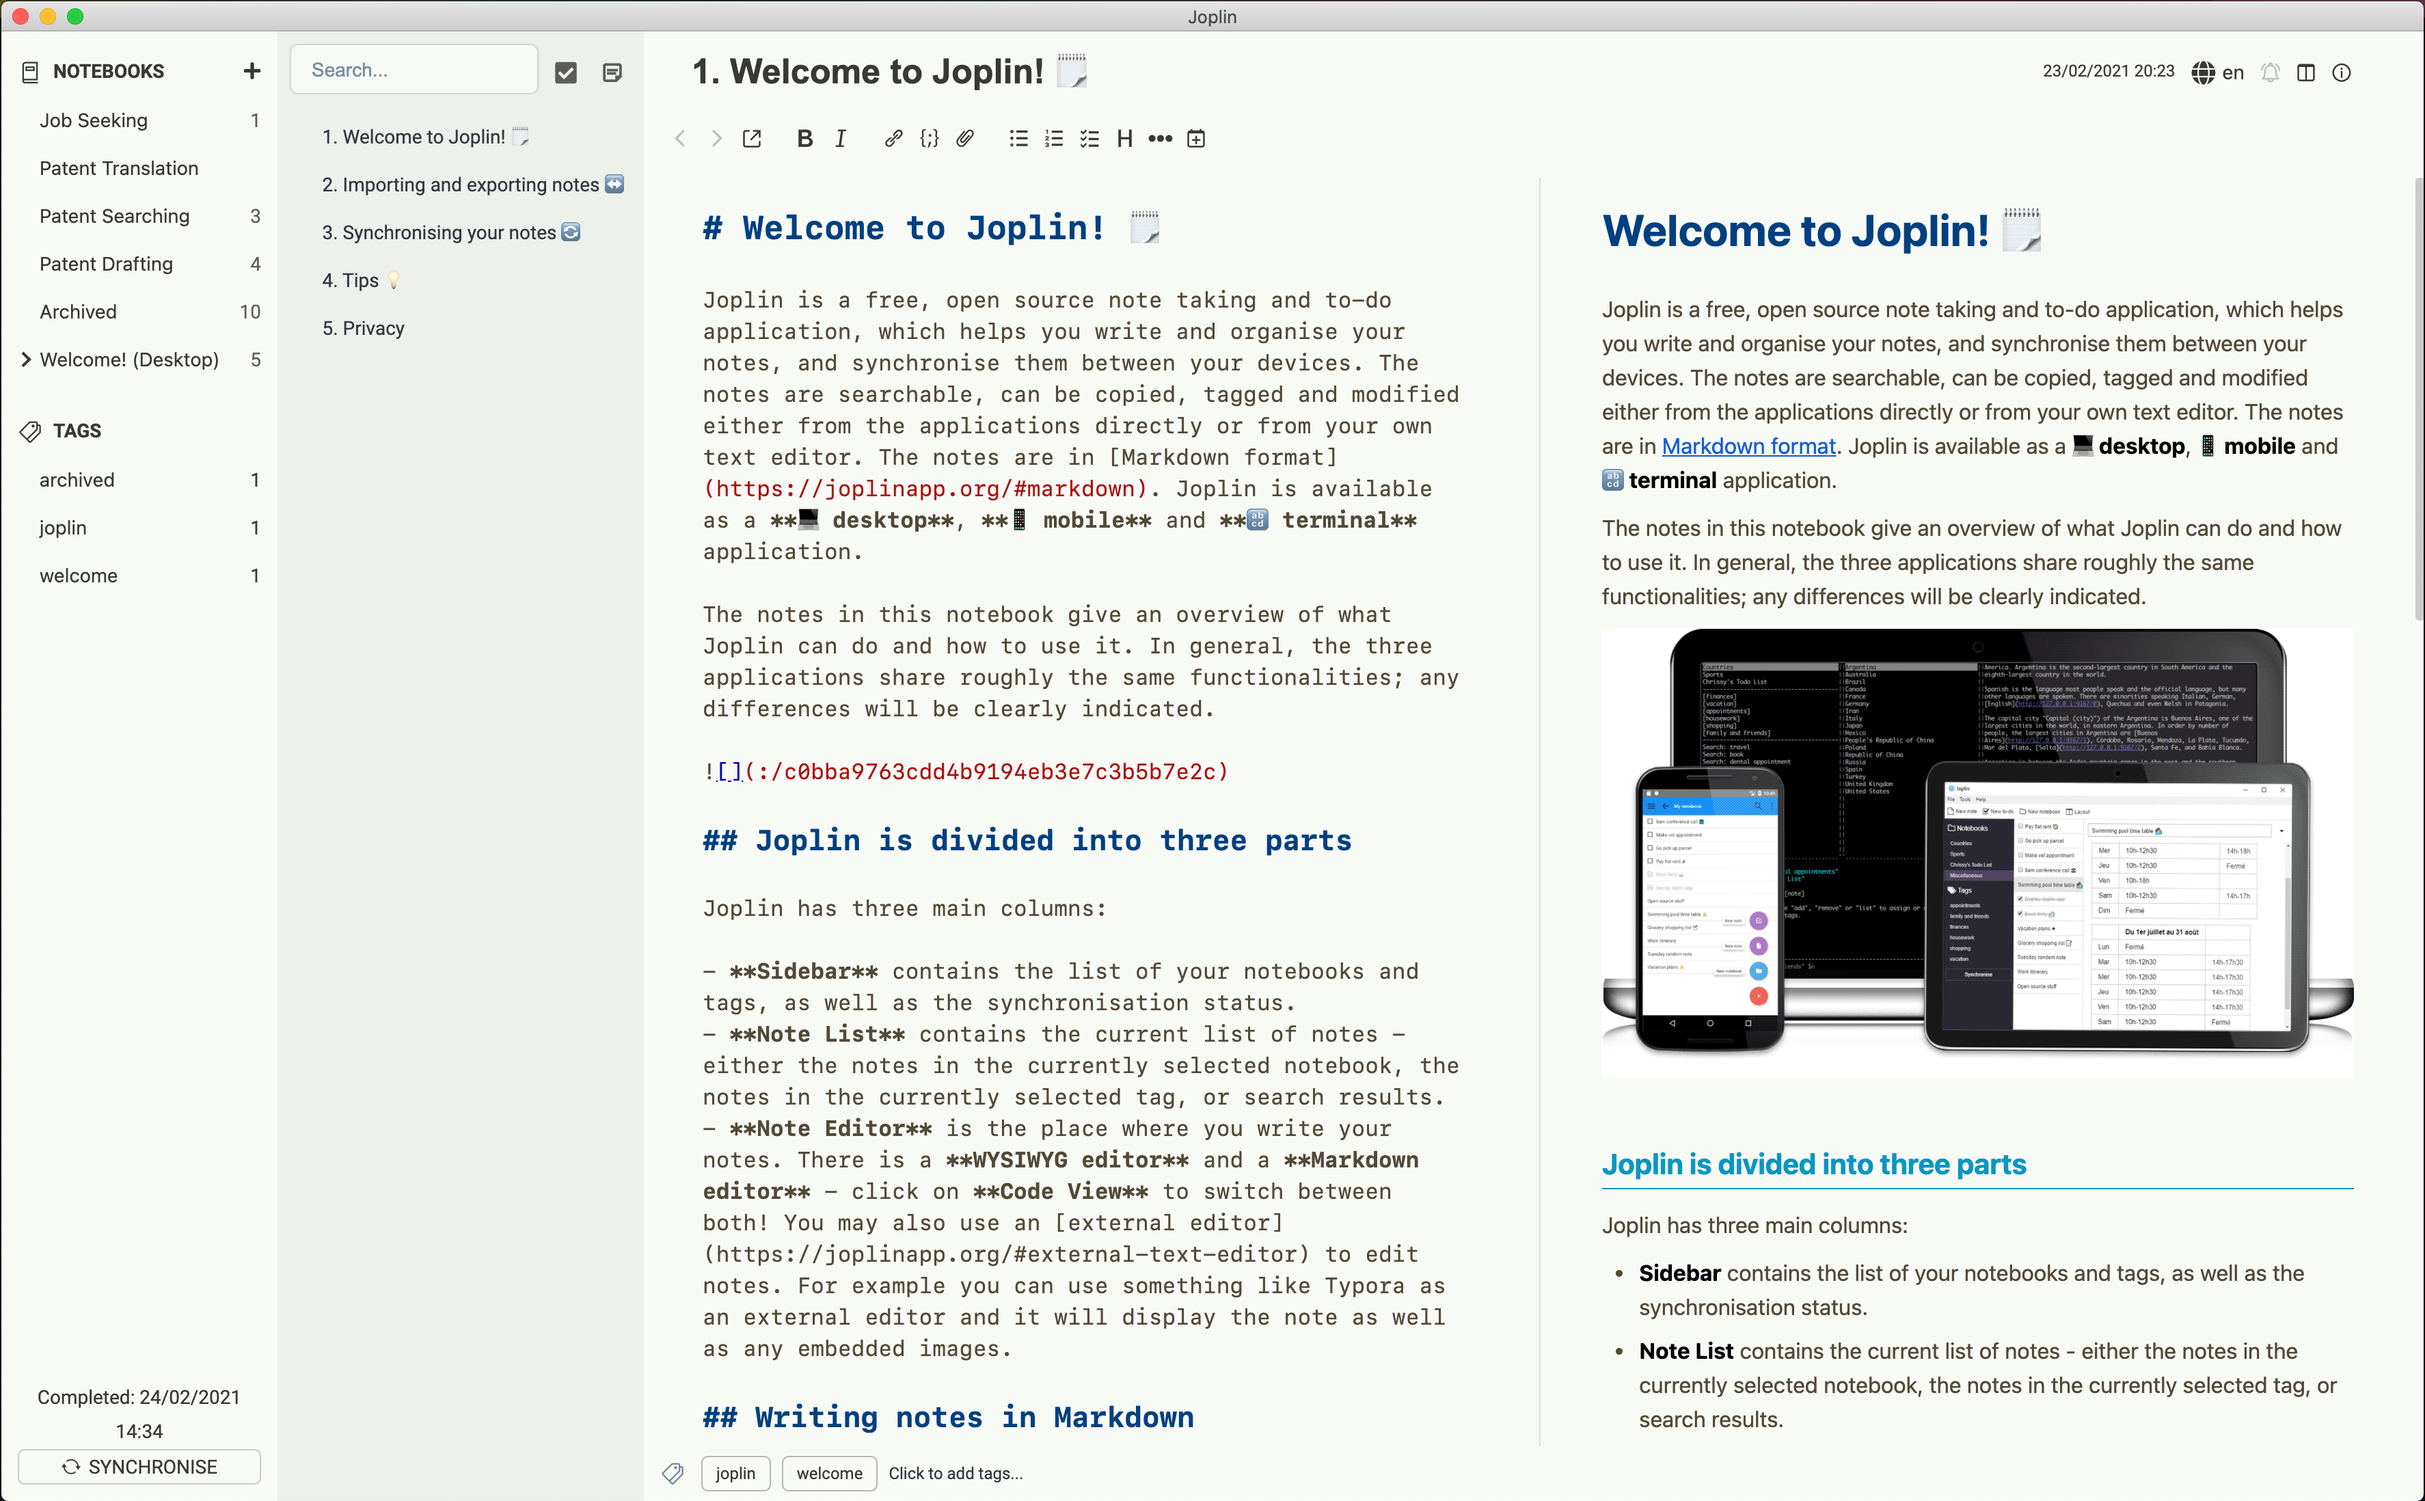
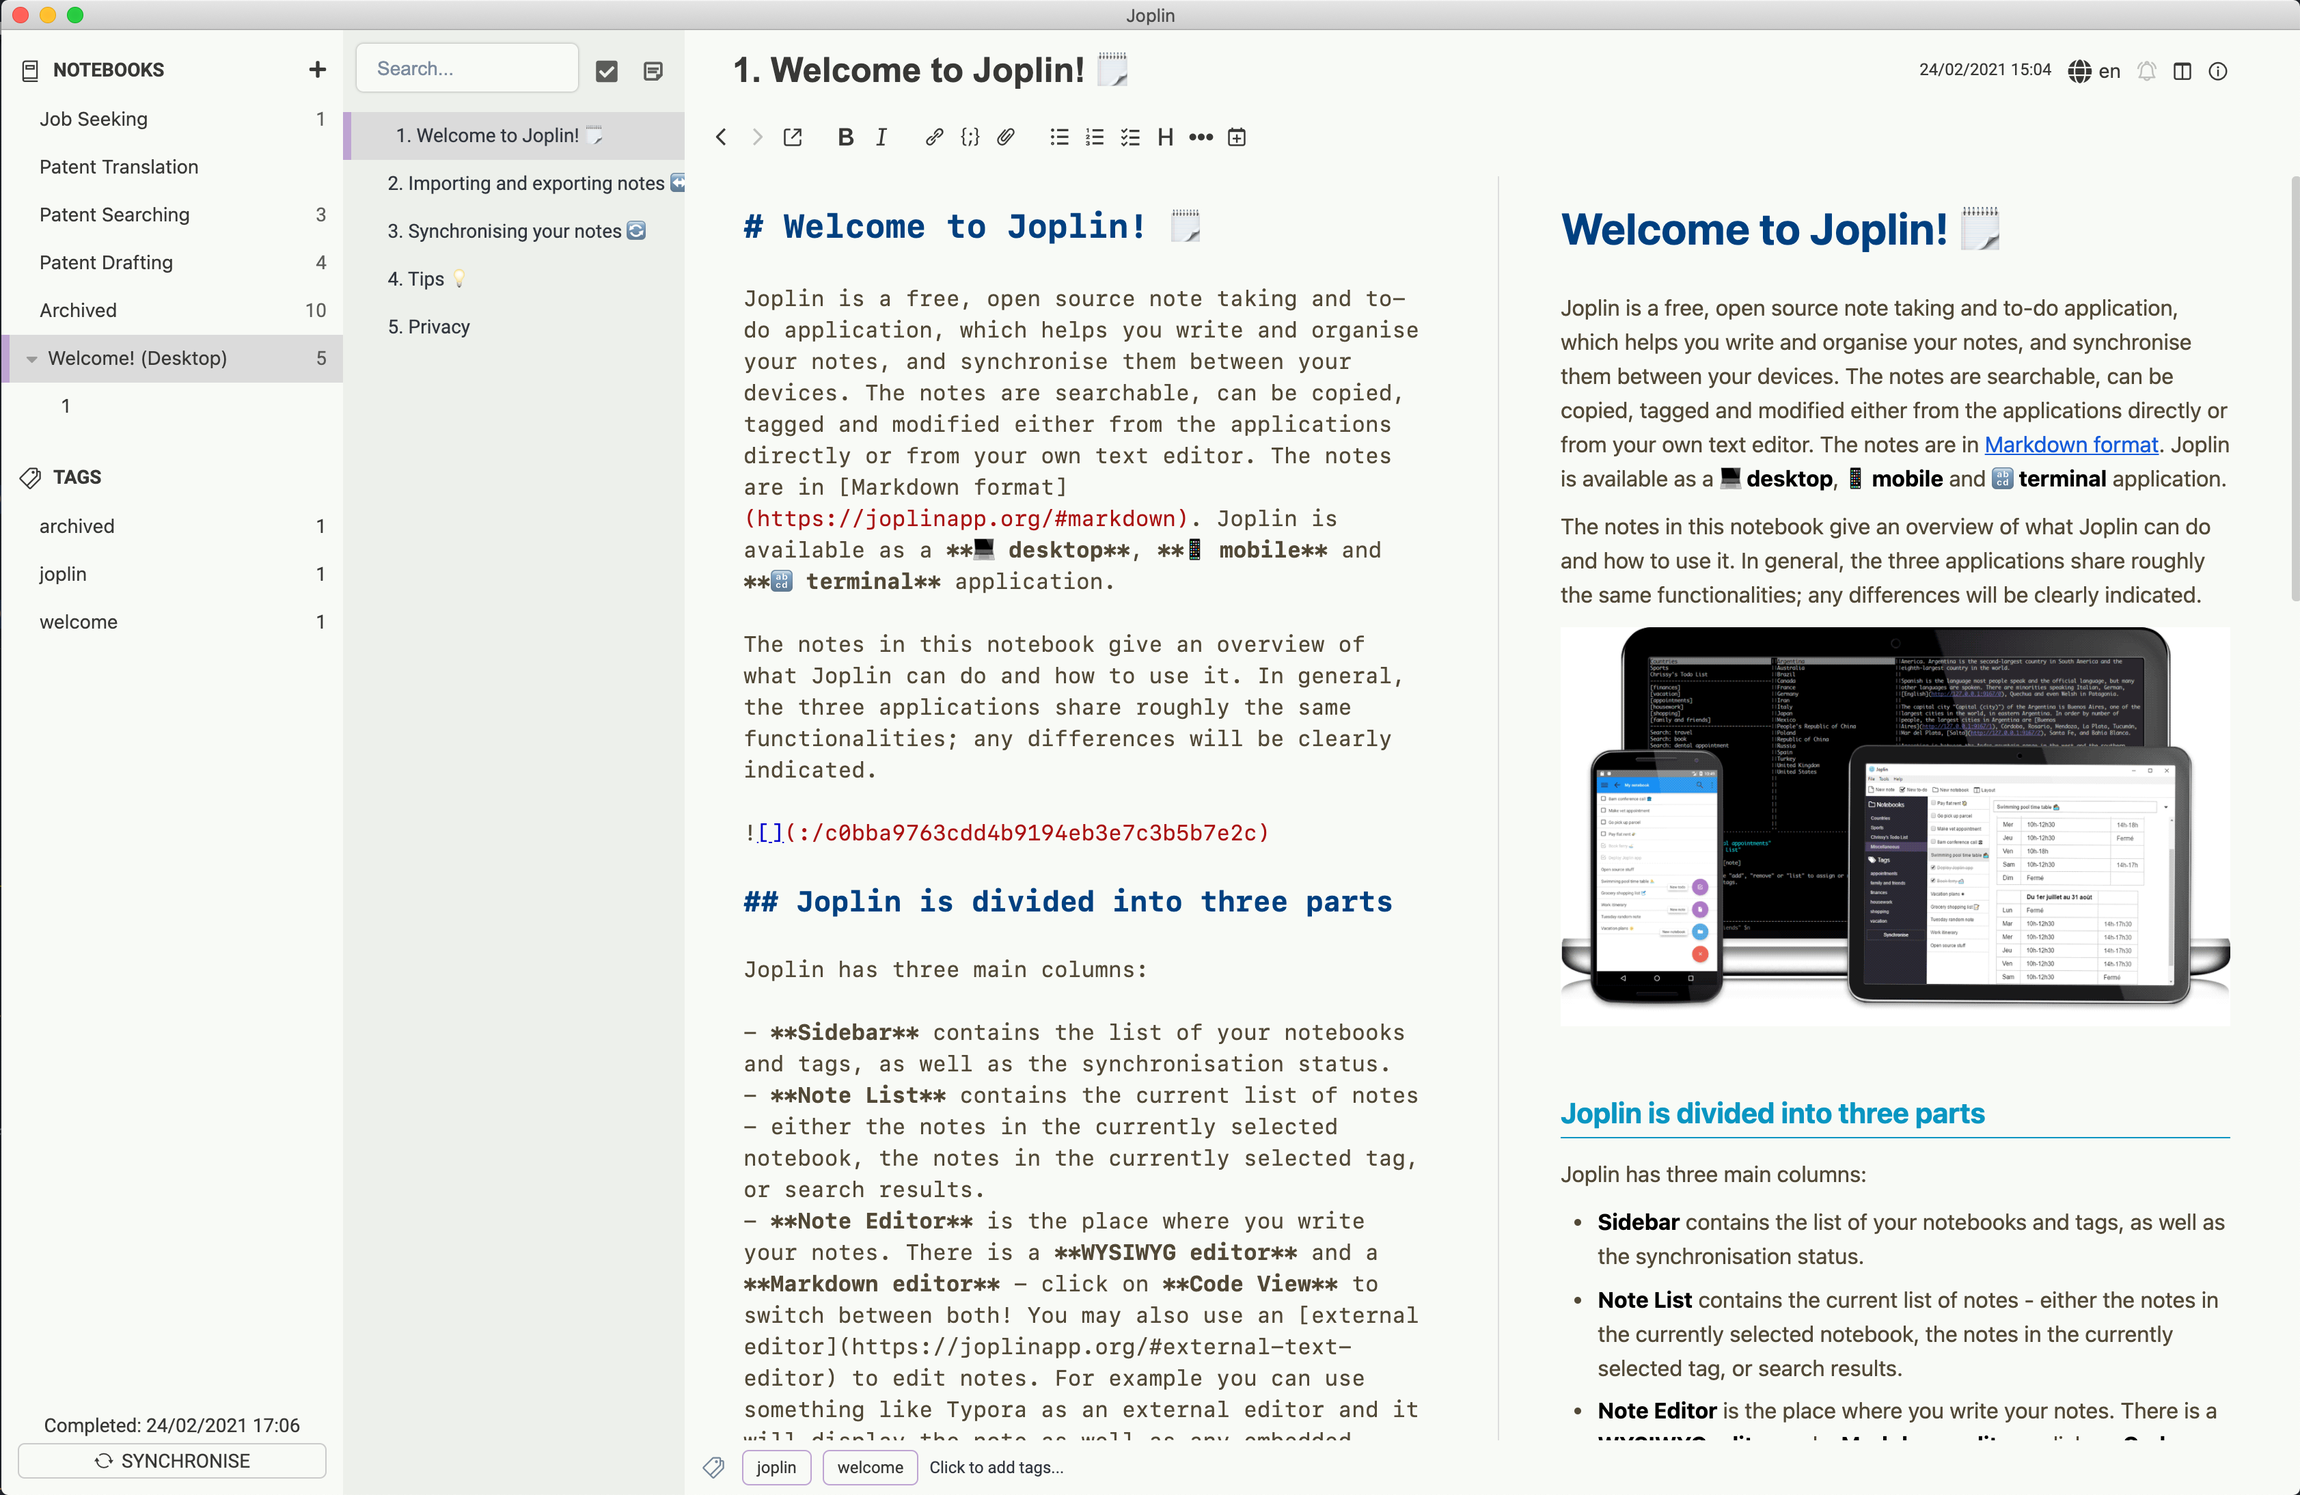
Add files via upload

diff --git a/userchrome.css b/userchrome.css
@@ -25,7 +25,7 @@
 	--color-loading-dark: #444;
 	--color-box-shadow: rgba(77, 77, 77, 0.5);
 	--color-border: #cbcbcb;
-	--color-border-dark: #B8B6B2;
+	--color-border-dark: #BEA4D2;
 	--border-radius: 5px;
 	--border-radius-large: 10px;
 	--border-radius-pill: 100px;
@@ -49,8 +49,11 @@ body {
 	line-height: var(--default-line-height);
 	font-family: var(--font-face);
 	color: var(--color-main-text);
-	word-wrap: break-word !important;
 }
+
+div {
+}
+
 
 a {
 	font-family: var(--font-face) !important;
@@ -66,6 +69,10 @@ display: none !important;
 .hAzLGs,.gvPZcU,.bNOfCT  { 
 display: none !important;
 } */
+
+.rli-sideBar {
+	min-width: 250px !important;
+}
 
 .sidebar {
 	padding-top:5px;
@@ -128,27 +135,17 @@ a.list-item {
 	background-color: transparent !important;
 }
 
-.sidebar .xOaMI::before,
-.note-list .list-item-container a:focus::before {
-    position: relative;
-    /* top: 3pt; lower the icons as  required*/
-    content: "";
-    display: inline-block;
-    /* By using an em scale, the arrows will size with the font */
-    width: 0.4em;
-    height: 0.4em;
-    border-right: 0.2em solid var(--color-main-text);
-    border-top: 0.2em solid var(--color-main-text);
-    transform: rotate(45deg);
-	margin-right:-0.6em;
+.sidebar .xOaMI,
+.sidebar .eRzPp,
+.note-list .list-item-container a:focus {
+    background-color: var(--color-background-darker) !important;
+	border-left: 6px solid var(--color-border-dark) !important;
 }
 
 .sidebar .list-item-container:hover,
 .note-list .list-item-container:hover,
 .folders .list-item-container:hover {
-	border-top: 1px solid var(--color-border) !important;
-	border-bottom: 1px solid var(--color-border) !important;
-	background-color: rgba(255,255,255,0.2) !important;
+	background-color: rgba(0,0,0,0.1) !important;
 }
 
 .folders .list-item-container a:hover,
@@ -379,6 +376,7 @@ a.list-item:hover {
 
 .rli-noteList {
 	background-color: var(--color-background-dark);
+	min-width: 250px !important;
 }
 
 .rli-noteList .gkjdjq {
